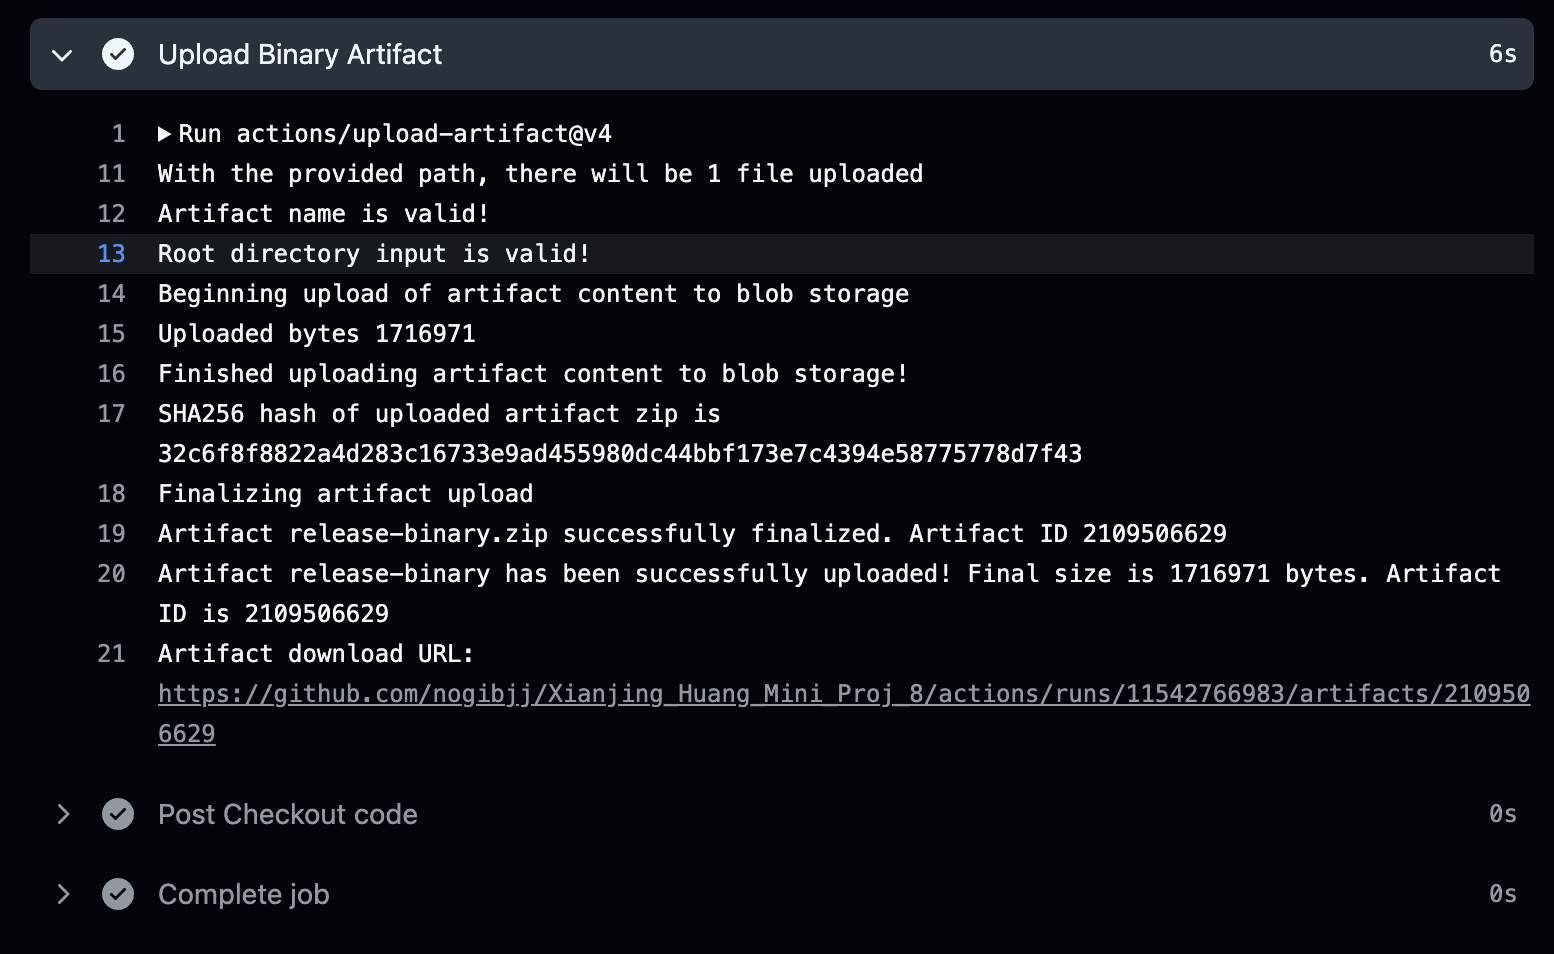
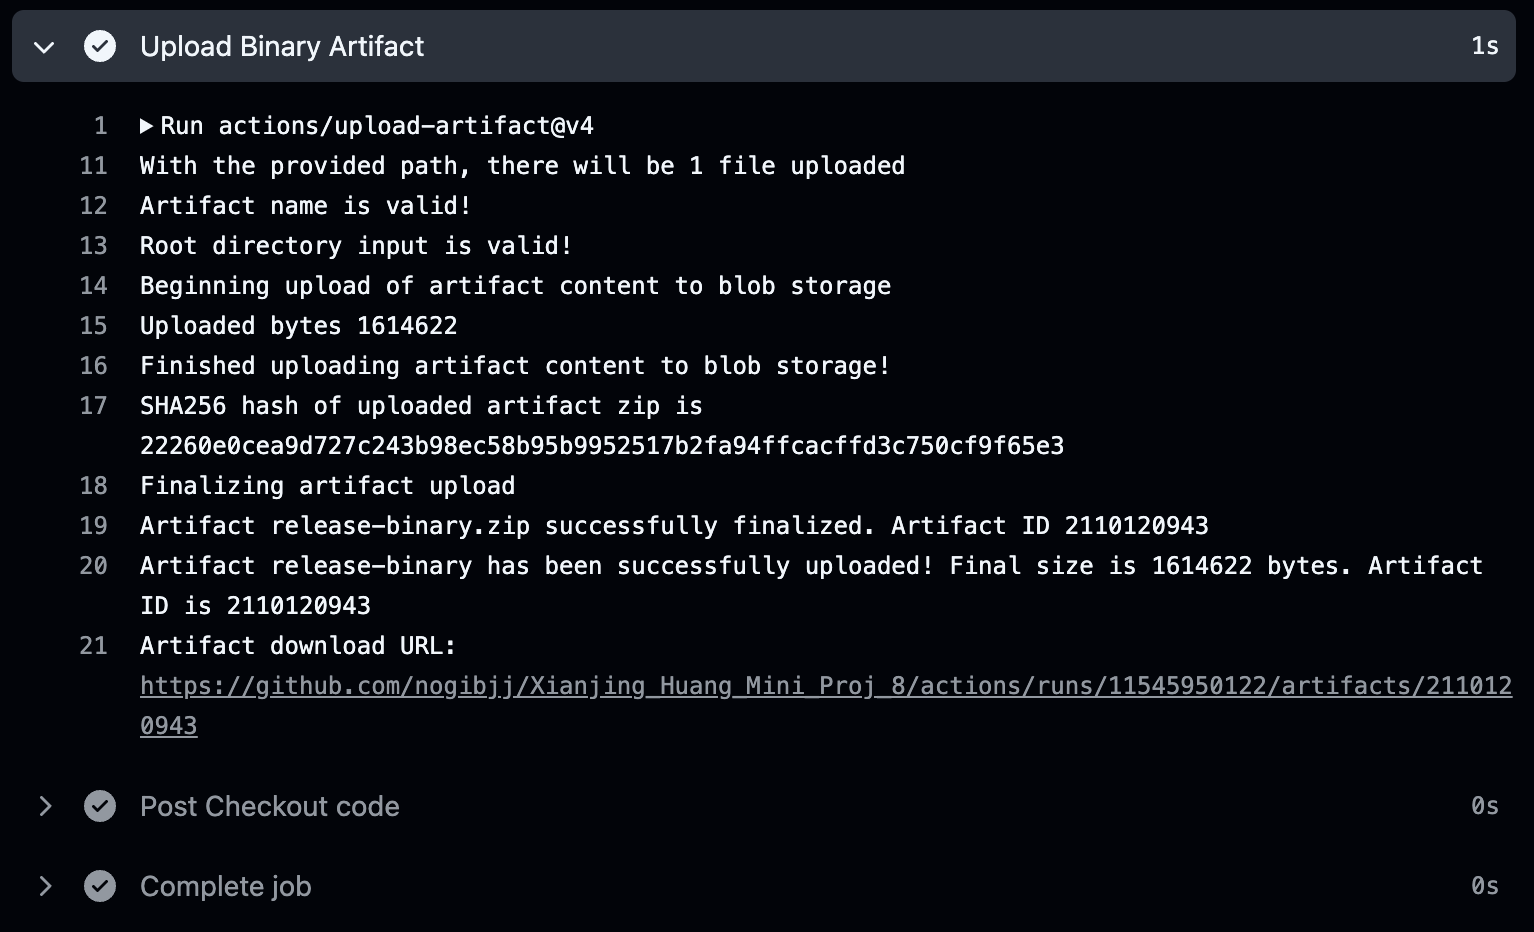
add badge

diff --git a/README.md b/README.md
@@ -1,5 +1,6 @@
 # Xianjing_Huang_Mini_Proj_8
-[![CI](https://github.com/nogibjj/Xianjing_Huang_Mini_Proj_7/actions/workflows/CI.yml/badge.svg)](https://github.com/nogibjj/Xianjing_Huang_Mini_Proj_7/actions/workflows/CI.yml)
+[![Python CI](https://github.com/nogibjj/Xianjing_Huang_Mini_Proj_8/actions/workflows/PythonCI.yml/badge.svg)](https://github.com/nogibjj/Xianjing_Huang_Mini_Proj_8/actions/workflows/PythonCI.yml)
+[![Rust CI](https://github.com/nogibjj/Xianjing_Huang_Mini_Proj_8/actions/workflows/RustCI.yml/badge.svg)](https://github.com/nogibjj/Xianjing_Huang_Mini_Proj_8/actions/workflows/RustCI.yml)
 
 ### Python Project Structure
 ```
@@ -114,7 +115,7 @@ See result in [Performance Report](performance_report.md)
 
 
 ### Binary Download Link
-https://github.com/nogibjj/Xianjing_Huang_Mini_Proj_8/actions/runs/11542766983/artifacts/2109506629
+https://github.com/nogibjj/Xianjing_Huang_Mini_Proj_8/actions/runs/11545950122/artifacts/2110120943
 
 The binary location is what gets uploaded as an artifact in the yml file.
 ![2](/imgs/002.png)
